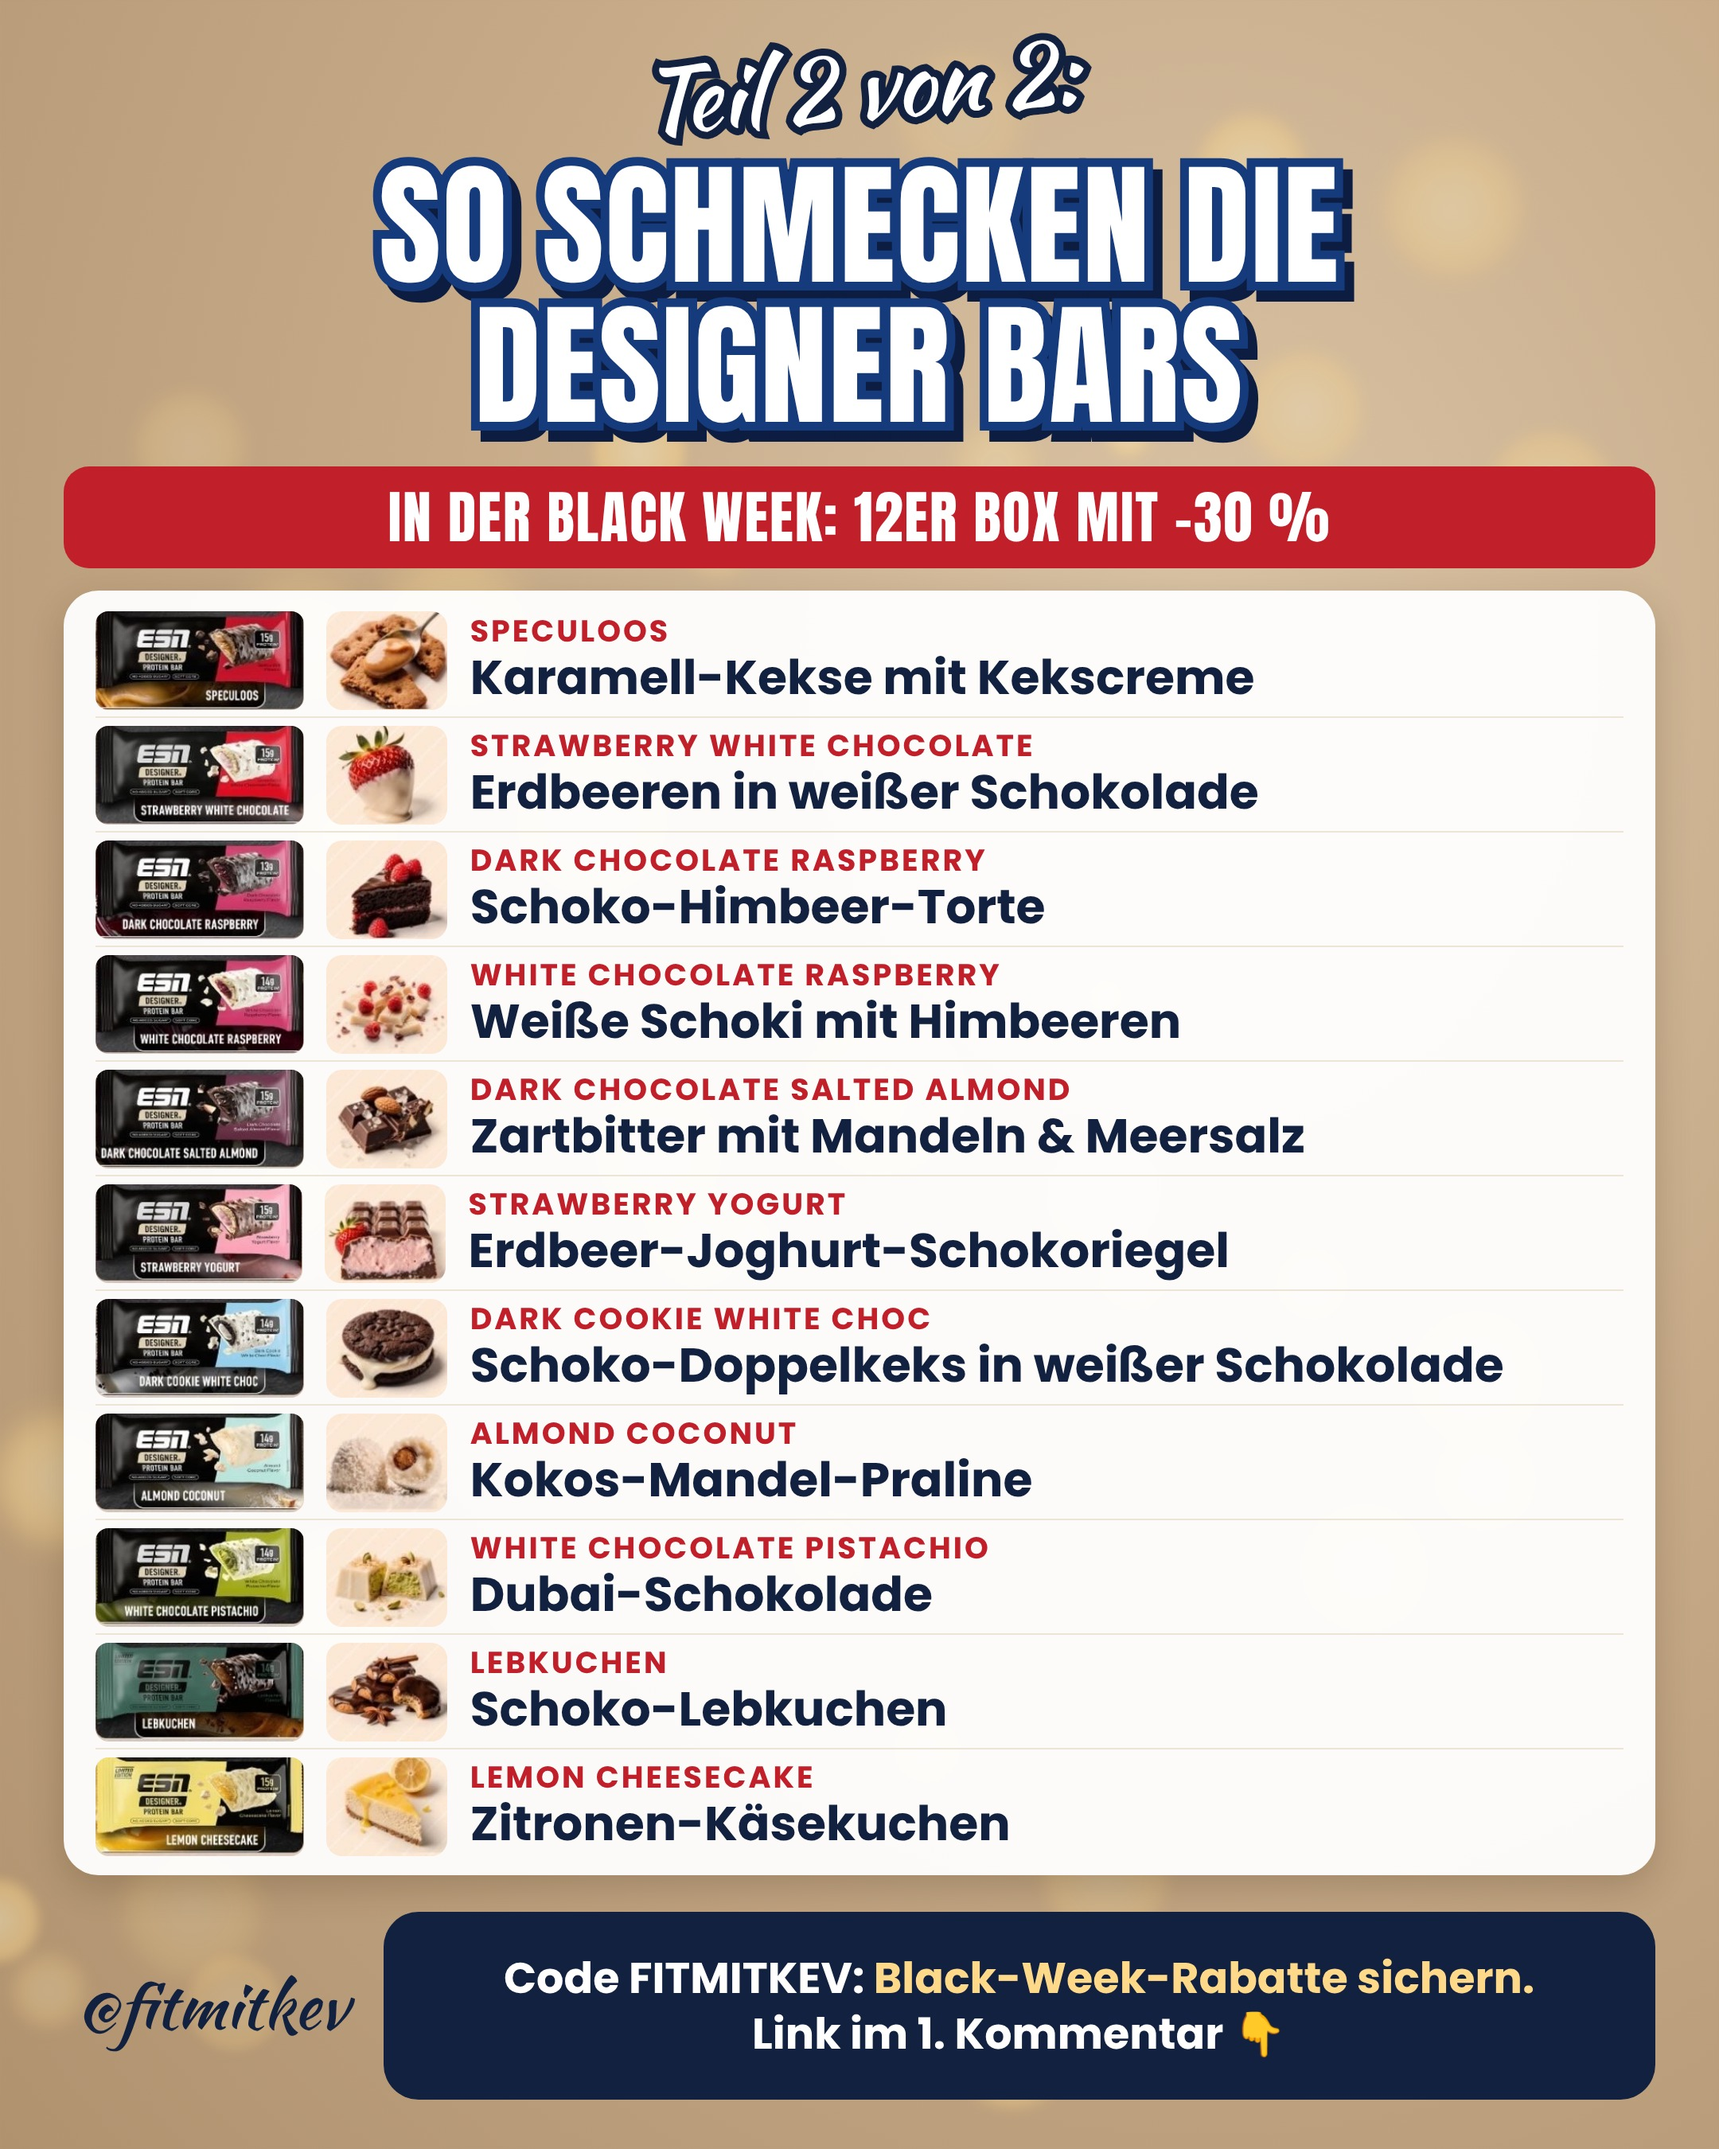
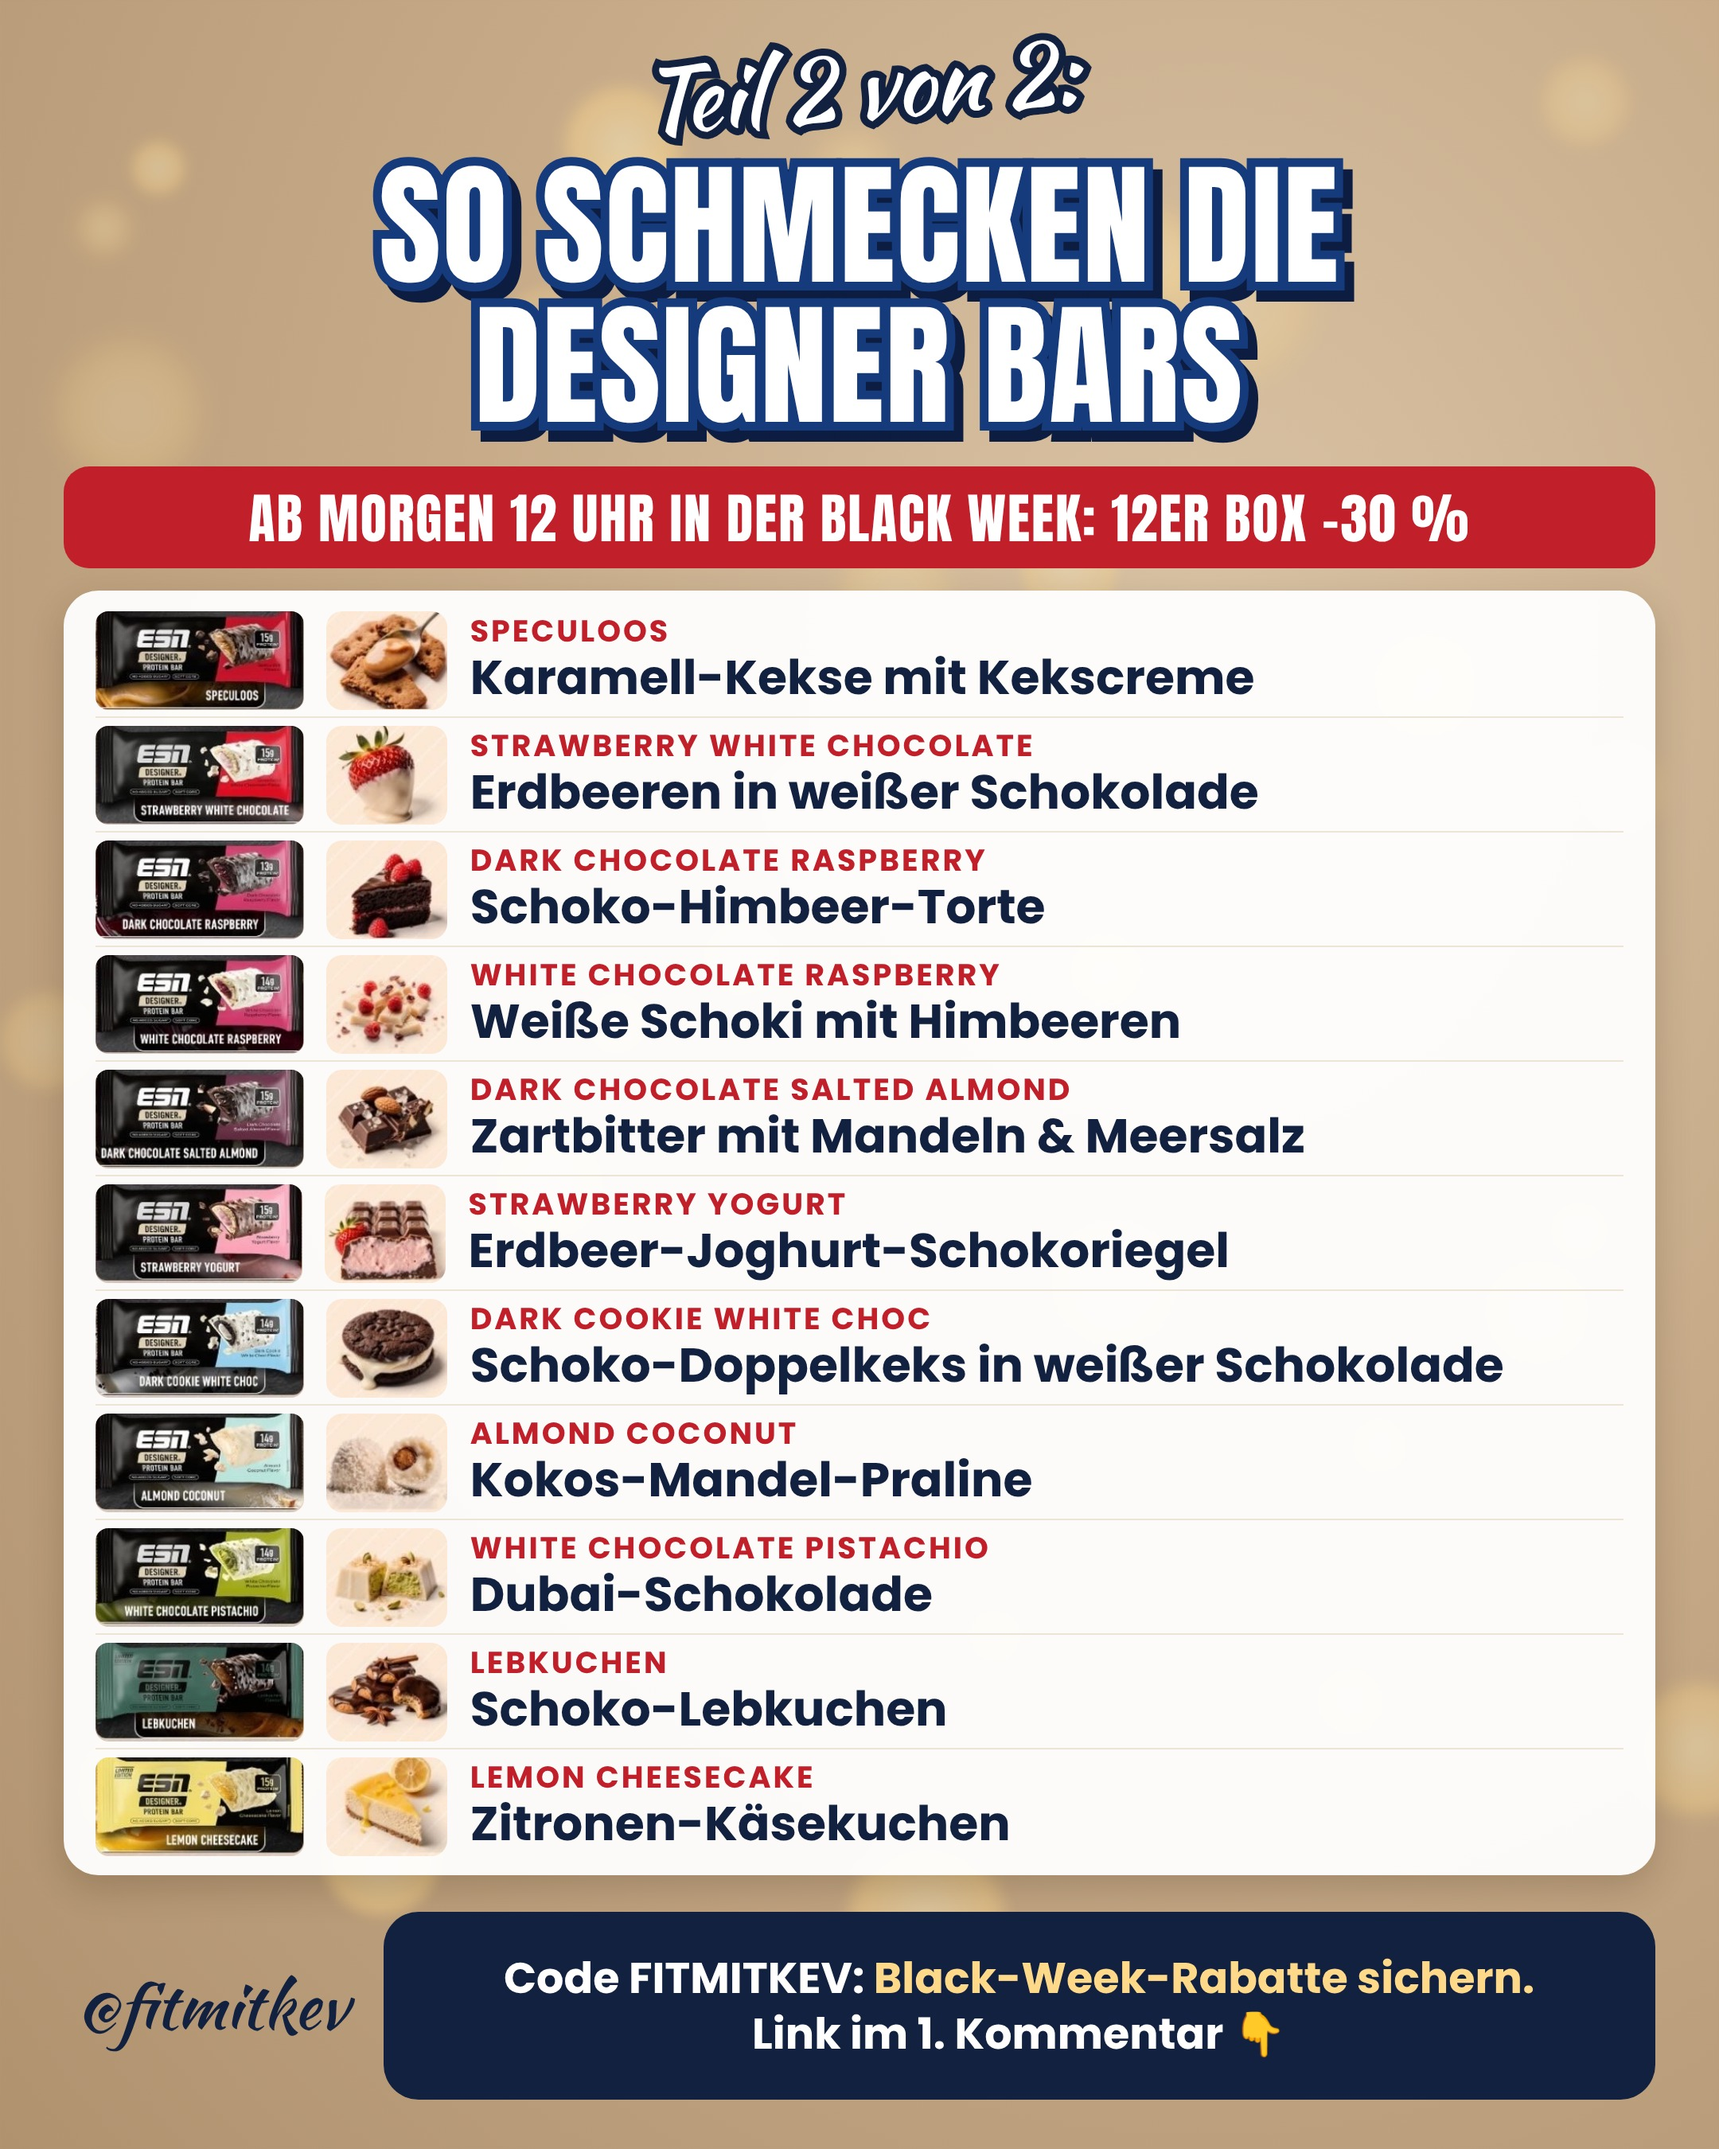
ESN: Designer-Bars-Beiträge auf Sa 21.11. (9:00 und 18:30) vor dem Start umgestellt
Claude-Session: https://claude.ai/code/session_01KPVmpRePrZAkggdzf7KsfK

diff --git a/tools/esn_produkt/produkt_texte.py b/tools/esn_produkt/produkt_texte.py
@@ -4,6 +4,12 @@ D=os.path.dirname(os.path.abspath(__file__))
 L="esn.com/instagram/FITMITKEV/aktion"; BIS="(bis Mi 2.12., 17:30 Uhr)"
 URL="https://raw.githubusercontent.com/phj4t84dpj-byte/fitmitkev-bilder/main/esn/posts/{}.jpg"
 P=[
+("2026-11-21","09:00","ESN-P12-Designer-Bar-Sorten-1","So schmecken die Designer Bars (Teil 1)",
+"Werbung\n\nWie kann man sich die Designer Bars vorstellen? Teil 1 von 2 🍫\n\nMaple Walnut: Pancakes mit Ahornsirup & Walnuss\nCaramel Latte: Karamell-Latte-Macchiato\nDark Chocolate Mocha: Mokka mit Zartbitter\nSpekulatius: Klassischer Spekulatius\nCookie Dough: Roher Keksteig\nPeanut Caramel: Erdnuss-Karamell-Schokoriegel\nCinnamon Cereal: Zimt-Cerealien\nPeanut Butter Pretzel: Schoko-Brezeln mit Erdnussbutter\nTropical Vanilla: Vanilleeis mit Mango & Kokos\nHazelnut Nougat: Haselnuss-Nougat-Praline\nFudge Brownie: Fudge-Brownie\n\nAlle ohne Zuckerzusatz und mit bis zu 15 g Eiweiß je Riegel.\n\nMorgen um 12 Uhr startet bei ESN die Black Week. Dann gibt es die 12er Box mit -30 %.\n\nWelche Sorte wäre deine? Teil 2 kommt heute Abend.",
+f"Werbung: ESN Black Week ab Sonntag, 22.11., 12 Uhr bis Mittwoch, 2.12., 17:30 Uhr. Black-Week-Rabatte mit Code FITMITKEV sichern 👉 {L} (der Link funktioniert ab Sonntag 12 Uhr)"),
+("2026-11-21","18:30","ESN-P13-Designer-Bar-Sorten-2","So schmecken die Designer Bars (Teil 2)",
+"Werbung\n\nWie kann man sich die Designer Bars vorstellen? Teil 2 von 2 🍫\n\nSpeculoos: Karamell-Kekse mit Kekscreme\nStrawberry White Chocolate: Erdbeeren in weißer Schokolade\nDark Chocolate Raspberry: Schoko-Himbeer-Torte\nWhite Chocolate Raspberry: Weiße Schoki mit Himbeeren\nDark Chocolate Salted Almond: Zartbitter mit Mandeln & Meersalz\nStrawberry Yogurt: Erdbeer-Joghurt-Schokoriegel\nDark Cookie White Choc: Schoko-Doppelkeks in weißer Schokolade\nAlmond Coconut: Kokos-Mandel-Praline\nWhite Chocolate Pistachio: Dubai-Schokolade\nLebkuchen: Schoko-Lebkuchen\nLemon Cheesecake: Zitronen-Käsekuchen\n\nAlle ohne Zuckerzusatz und mit bis zu 15 g Eiweiß je Riegel.\n\nMorgen um 12 Uhr startet bei ESN die Black Week. Dann gibt es die 12er Box mit -30 %.\n\nWelche Sorte würdest du zuerst probieren?",
+f"Werbung: ESN Black Week ab Sonntag, 22.11., 12 Uhr bis Mittwoch, 2.12., 17:30 Uhr. Black-Week-Rabatte mit Code FITMITKEV sichern 👉 {L} (der Link funktioniert ab Sonntag 12 Uhr)"),
 ("2026-11-23","09:00","ESN-P2-Morgen","Mein Frühstück unterwegs",
 "Werbung\n\nMein Frühstück unterwegs: 2 Minuten statt Bäcker ☕\n\nCoffee to go mit Croissant: ca. 450 kcal und nur 10 g Eiweiß.\nMein Flexpresso mit Mandelmilch: ca. 145 kcal und 24 g Eiweiß.\n\nEin Drittel der Kalorien, mehr als doppelt so viel Eiweiß. Ich trinke jeden Morgen eine doppelte Portion.\n\nWas gibt's bei dir morgens? ☕🥐",
 f"Werbung: Den Protein-Kaffee (Flexpresso) gibt es gerade in der ESN Black Week mit -25 %. Black-Week-Rabatte mit Code FITMITKEV sichern 👉 {L} {BIS}"),
@@ -14,12 +20,6 @@ f"Werbung: Die Designer Bar gibt es gerade in der ESN Black Week mit -30 %. Blac
 "Werbung\n\nNeu bei ESN: 3 neue Sorten vom Extra Creamy Protein, und ich habe direkt 3 Rezepte daraus gemacht 😍\n\n🍪 Vanilla Speculoos: Spekulatius-Mousse in 5 Minuten\n🥣 Cinnamon Cereal: Zimtschnecken-Overnight-Oats\n🍓 Strawberry Cream: Erdbeer-Quark-Bowl nur für dich\n\nAlle drei Rezepte findest du hier auf der Seite, jeweils mit über 30 g Eiweiß.\n\nWelche Sorte würdest du zuerst probieren?",
 f"Werbung: Die neuen Sorten gibt es gerade in der ESN Black Week mit -30 %. Black-Week-Rabatte mit Code FITMITKEV sichern 👉 {L} {BIS}"),
 # P5 (Do 26.11.) am 19.11. von Kev gestrichen – der Tag bleibt ohne Infobeitrag.
-("2026-11-26","09:00","ESN-P12-Designer-Bar-Sorten-1","So schmecken die Designer Bars (Teil 1)",
-"Werbung\n\nWie kann man sich die Designer Bars vorstellen? Teil 1 von 2 🍫\n\nMaple Walnut: Pancakes mit Ahornsirup & Walnuss\nCaramel Latte: Karamell-Latte-Macchiato\nDark Chocolate Mocha: Mokka mit Zartbitter\nSpekulatius: Klassischer Spekulatius\nCookie Dough: Roher Keksteig\nPeanut Caramel: Erdnuss-Karamell-Schokoriegel\nCinnamon Cereal: Zimt-Cerealien\nPeanut Butter Pretzel: Schoko-Brezeln mit Erdnussbutter\nTropical Vanilla: Vanilleeis mit Mango & Kokos\nHazelnut Nougat: Haselnuss-Nougat-Praline\nFudge Brownie: Fudge-Brownie\n\nAlle ohne Zuckerzusatz und mit bis zu 15 g Eiweiß je Riegel.\n\nWelche Sorte wäre deine? Teil 2 kommt heute Abend.",
-f"Werbung: Die Designer Bar gibt es gerade in der ESN Black Week als 12er Box mit -30 %. Black-Week-Rabatte mit Code FITMITKEV sichern 👉 {L} {BIS}"),
-("2026-11-26","18:30","ESN-P13-Designer-Bar-Sorten-2","So schmecken die Designer Bars (Teil 2)",
-"Werbung\n\nWie kann man sich die Designer Bars vorstellen? Teil 2 von 2 🍫\n\nSpeculoos: Karamell-Kekse mit Kekscreme\nStrawberry White Chocolate: Erdbeeren in weißer Schokolade\nDark Chocolate Raspberry: Schoko-Himbeer-Torte\nWhite Chocolate Raspberry: Weiße Schoki mit Himbeeren\nDark Chocolate Salted Almond: Zartbitter mit Mandeln & Meersalz\nStrawberry Yogurt: Erdbeer-Joghurt-Schokoriegel\nDark Cookie White Choc: Schoko-Doppelkeks in weißer Schokolade\nAlmond Coconut: Kokos-Mandel-Praline\nWhite Chocolate Pistachio: Dubai-Schokolade\nLebkuchen: Schoko-Lebkuchen\nLemon Cheesecake: Zitronen-Käsekuchen\n\nAlle ohne Zuckerzusatz und mit bis zu 15 g Eiweiß je Riegel.\n\nWelche Sorte würdest du zuerst probieren?",
-f"Werbung: Die Designer Bar gibt es gerade in der ESN Black Week als 12er Box mit -30 %. Black-Week-Rabatte mit Code FITMITKEV sichern 👉 {L} {BIS}"),
 ("2026-11-27","09:00","ESN-P6-Top3","Black Friday: meine Top 3",
 "Werbung\n\nBlack Friday 🖤 Meine Top 3 für den Vorrat:\n\n1. Designer Protein Extra Creamy für meine Rezepte: -30 %\n2. Designer Bar als 12er Box für den Snack: -30 %\n3. Protein-Kaffee Flexpresso für morgens: -25 %\n\nTipp: Ab der 2. Bestellung in der Black Week ist der Versand ab 30 € kostenlos. Einfach die Codes FITMITKEV und SHIPAGAIN kombinieren.\n\nDie ESN Black Week gibt es nur 1x im Jahr. Was kommt bei dir in den Warenkorb?",
 f"Werbung: Die beste Aktion des Jahres läuft. Black-Week-Rabatte mit Code FITMITKEV sichern 👉 {L} {BIS}"),
@@ -45,7 +45,7 @@ for d,z,f,alt,t,fc in P:
     out.append(dict(datum=d,zeit=z,datei=f,date=f"{d}T{z}:00",text=t,fc=fc,media=URL.format(f),alt=alt))
 json.dump(out,open(f"{D}/esn_produkt_posts.json","w"),ensure_ascii=False,indent=1)
 with open(f"{D}/texte-esn-produkt-beitraege.txt","w") as h:
-    h.write("ESN BLACK WEEK – PRODUKT-BEITRÄGE (je 9:00 Uhr, Kev 19.11.: „um 9 Uhr statt 12“; Designer Bars Teil 2 um 18:30)\nBeitrag 1 „Mein Einkaufszettel“ (So 22.11., 11:00): Text in tools/gesn/ESN-persoenliche-Beitraege-Entwurf.txt. Beitrag 5 „Dose“ ist gestrichen; am Do 26.11. laufen dafür Beitrag 12 und 13 „So schmecken die Designer Bars“ (Kevs Idee vom 19.11., Entwurf).\n\n")
+    h.write("ESN BLACK WEEK – PRODUKT-BEITRÄGE (je 9:00 Uhr, Kev 19.11.: „um 9 Uhr statt 12“; Designer Bars Teil 2 um 18:30)\nBeitrag 1 „Mein Einkaufszettel“ (So 22.11., 11:00): Text in tools/gesn/ESN-persoenliche-Beitraege-Entwurf.txt. Beitrag 5 „Dose“ ist gestrichen; Do 26.11. bleibt ohne Infobeitrag. Beitrag 12 und 13 „So schmecken die Designer Bars“ laufen auf Kevs Wunsch schon Sa 21.11. (9:00 und 18:30), vor dem Start.\n\n")
     for p in out:
         h.write(f"===== {p['datum'][8:10]}.{p['datum'][5:7]}. · {p['zeit']} · Bild {p['datei']}.jpg\n\nTEXT:\n{p['text']}\n\n1. KOMMENTAR:\n{p['fc']}\n\n\n")
 print(len(out))

diff --git a/tools/esn_produkt/esn_board.py b/tools/esn_produkt/esn_board.py
@@ -33,7 +33,7 @@ def card_foto(d):
 def card_sorten(d):
     return ''.join(f'<div class="sr"><img class="sp" src="{img("bars/"+k+"-pack.jpg")}"><img class="sf" src="{img("bars/"+k+"-food.jpg")}"><div class="st"><div class="sn">{H.escape(n)}</div><div class="sd">{H.escape(t)}</div></div></div>' for k,n,t in d)
 CARD={'vs':card_vs,'rows':card_rows,'prod':card_prod,'foto':card_foto,'sorten':card_sorten}
-SORTEN_CSS='.card{padding:8px 20px}.sr{display:flex;align-items:center;gap:14px;height:71px;border-bottom:1.5px solid #eee4d6}.sr:last-child{border-bottom:none}.sp{height:62px;border-radius:8px;flex:none}.sf{height:62px;width:76px;object-fit:cover;border-radius:10px;flex:none}.sn{font-size:19px;font-weight:700;letter-spacing:1.5px;color:#c1202b;text-transform:uppercase;line-height:1.2}.sd{font-size:30px;font-weight:700;color:#12213f;line-height:1.15;white-space:nowrap}.lab{font-size:36px}.msg{font-size:27px;line-height:1.3}'
+SORTEN_CSS='.card{padding:8px 20px}.sr{display:flex;align-items:center;gap:14px;height:71px;border-bottom:1.5px solid #eee4d6}.sr:last-child{border-bottom:none}.sp{height:62px;border-radius:8px;flex:none}.sf{height:62px;width:76px;object-fit:cover;border-radius:10px;flex:none}.sn{font-size:19px;font-weight:700;letter-spacing:1.5px;color:#c1202b;text-transform:uppercase;line-height:1.2}.sd{font-size:30px;font-weight:700;color:#12213f;line-height:1.15;white-space:nowrap}.lab{font-size:34px}.msg{font-size:27px;line-height:1.3}'
 SORTEN_MSG='Code FITMITKEV: <span>Black-Week-Rabatte sichern.</span><br>Link im 1. Kommentar 👇'
 SPEC={
  # K1/K2 (Kev 19.11., 17:45): Ankündigung Sa 21.11. und Start So 22.11. auch im Info-Design, nur ein Bild je Beitrag.
@@ -144,8 +144,9 @@ SPEC={
    css='.ri{background:#12213f;color:#fff;font-family:A;font-size:70px}'),
  # P12/P13 (Kev 19.11., 18:50): „Wie kann man sich die Designer Bars vorstellen?“ – Sorten und Vergleiche 1:1 aus Kevs zwei Story-Grafiken
  # (Packungs- und Geschmacksbilder daraus ausgeschnitten: esn/bilder/bars/). 22 Sorten in 2 Teilen, je ein Bild.
+ # Kev 19.11., 19:00: „lieber schon vor der Black Week, am Samstag“ → Sa 21.11., 9:00 und 18:30, Balken deshalb „Ab morgen 12 Uhr“.
  'P12':dict(out='ESN-P12-Designer-Bar-Sorten-1', hook='Teil 1 von 2:', title=['SO SCHMECKEN DIE','DESIGNER BARS'], size=84,
-   secs=[dict(lab='IN DER BLACK WEEK: 12ER BOX MIT -30 %', col=RED, type='sorten', d=[
+   secs=[dict(lab='AB MORGEN 12 UHR IN DER BLACK WEEK: 12ER BOX -30 %', col=RED, type='sorten', d=[
       ('maple-walnut','Maple Walnut','Pancakes mit Ahornsirup & Walnuss'),
       ('caramel-latte','Caramel Latte','Karamell-Latte-Macchiato'),
       ('dark-chocolate-mocha','Dark Chocolate Mocha','Mokka mit Zartbitter'),
@@ -159,7 +160,7 @@ SPEC={
       ('fudge-brownie','Fudge Brownie','Fudge-Brownie')])],
    mid='', msg=SORTEN_MSG, css=SORTEN_CSS),
  'P13':dict(out='ESN-P13-Designer-Bar-Sorten-2', hook='Teil 2 von 2:', title=['SO SCHMECKEN DIE','DESIGNER BARS'], size=84,
-   secs=[dict(lab='IN DER BLACK WEEK: 12ER BOX MIT -30 %', col=RED, type='sorten', d=[
+   secs=[dict(lab='AB MORGEN 12 UHR IN DER BLACK WEEK: 12ER BOX -30 %', col=RED, type='sorten', d=[
       ('speculoos','Speculoos','Karamell-Kekse mit Kekscreme'),
       ('strawberry-white-chocolate','Strawberry White Chocolate','Erdbeeren in weißer Schokolade'),
       ('dark-chocolate-raspberry','Dark Chocolate Raspberry','Schoko-Himbeer-Torte'),
